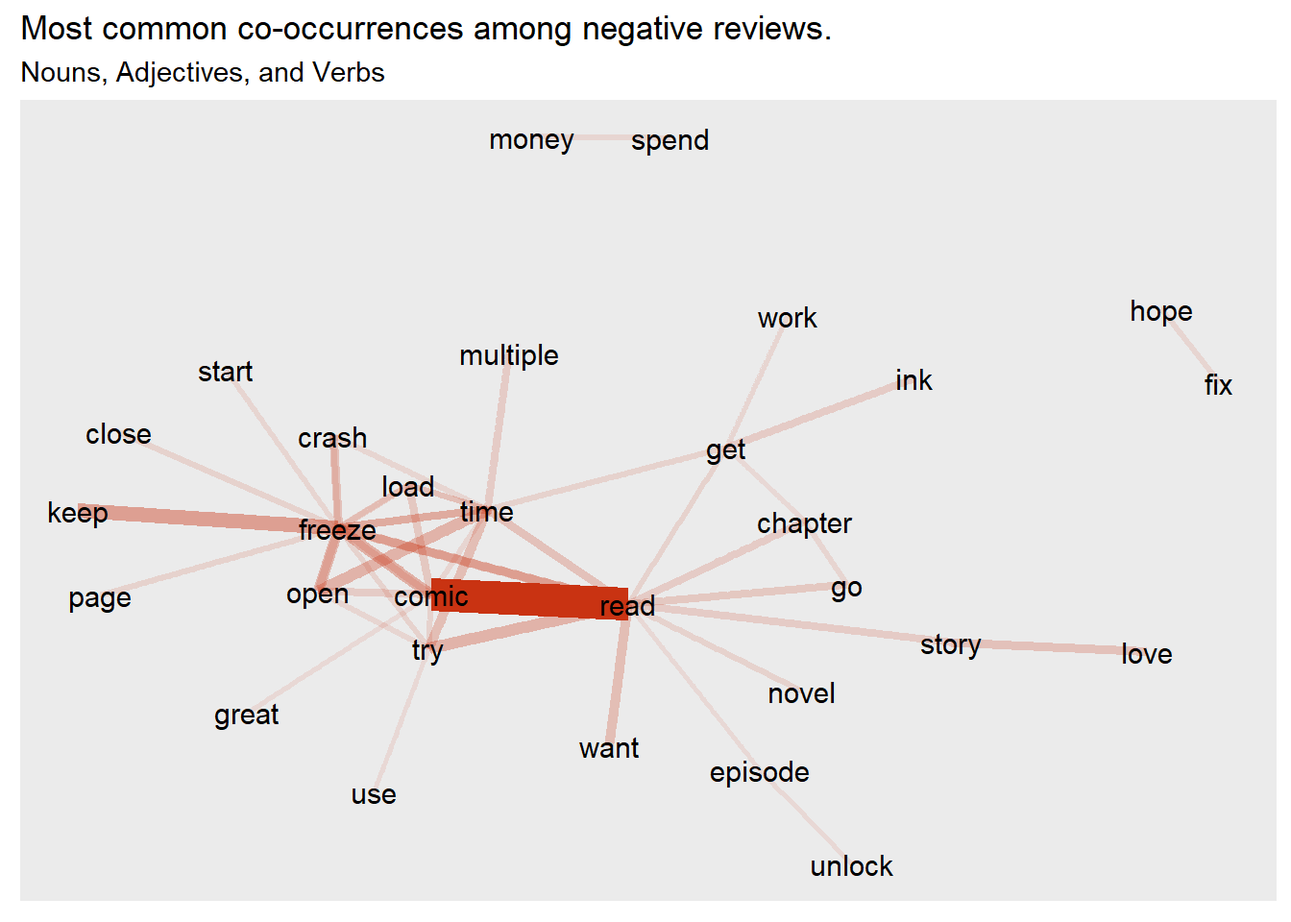
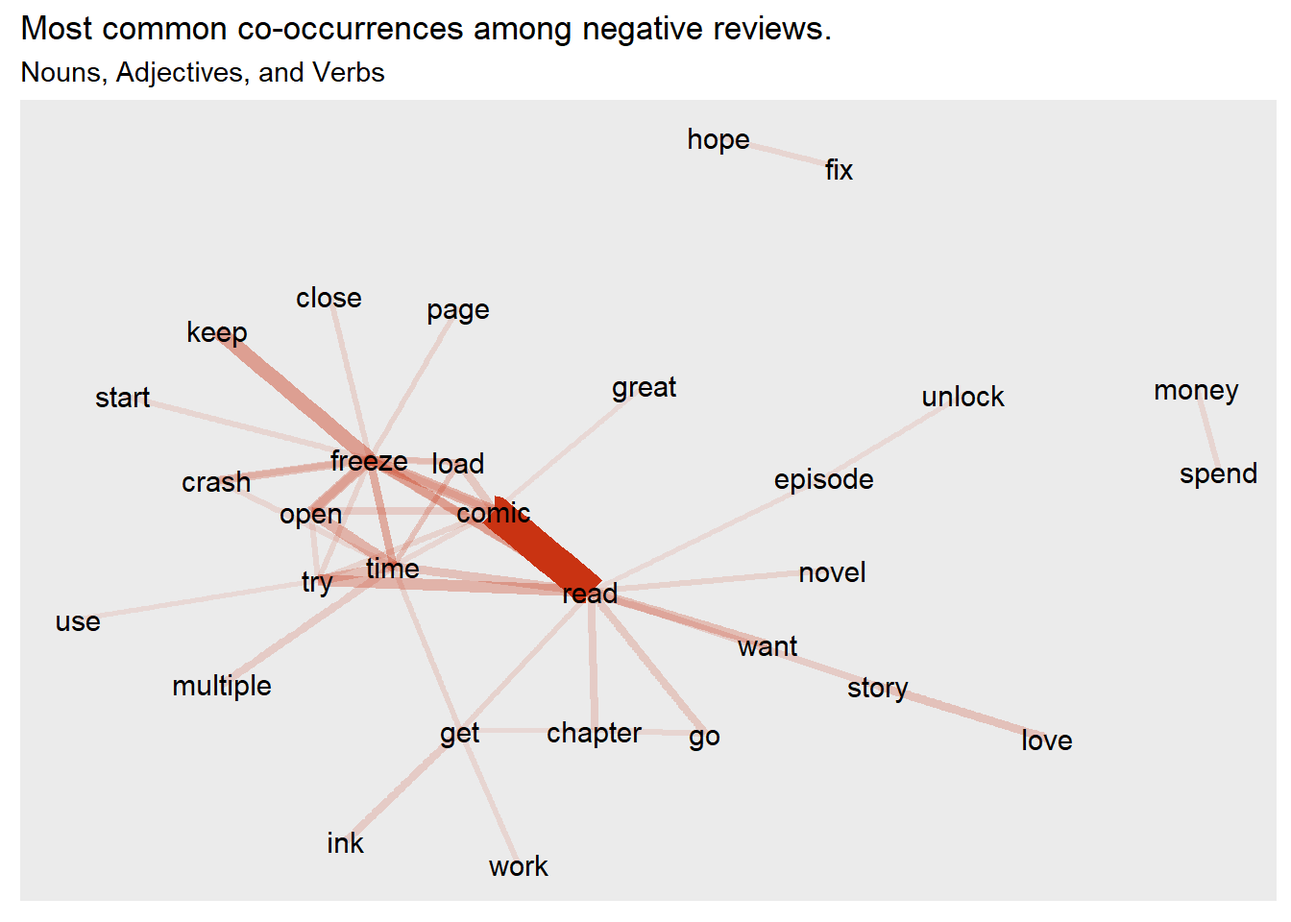
New post

diff --git a/content/post/text-mining-app-store-reviews/index.html b/content/post/text-mining-app-store-reviews/index.html
@@ -1,28 +1,29 @@
 ---
-title: "Ouch! Extracting Pain Points from App Reviews"
+title: "Webtoon App Reviews: Sentiment Analysis and Keyword Extraction"
 author: "Tato Lu"
 date: "10/24/2021"
 categories: ["R"]
-tags: ["EDA", "nlp", "text mining", "sentiment analysis", "topic modeling", "linear regression"]
+tags: ["EDA", "nlp", "text mining", "sentiment analysis", "topic modeling", "linear regression", "R"]
 ---
 
 
 
 <p><img src="images/app_store_reviews.PNG" />
-Today, companies are faced with huge volumes of unstructured text data in the form of social media posts, online reviews, emails, etc. Those data are key in answering questions like:</p>
+I currently work in economic consulting, but my first paid job was drawing comics for Tapas Media, a webtoon platform. I used to think that these two jobs were worlds apart. But even though one deals with million-dollar litigations and the other deals with funny drawings and fart jokes, they’re really about the same thing: telling stories. So in a weird way, my first job at Tapas started my journey as a storyteller. Needless to say, the company still holds a place near and dear to my heart.</p>
+<p>I thought it’d be fitting for my first portfolio project to pay homage to my first job, so I’ll be using Apple Store reviews to tell a story about the <a href="https://apps.apple.com/us/app/tapas-comics-and-novels/id578836126">Tapas app</a>. The goal of this project is to answer the following questions:</p>
 <ul>
-<li><p><strong>What does Twitter think of our brand?</strong></p></li>
-<li><p><strong>What key features are Amazon reviewers buzzing about?</strong></p></li>
-<li><p><strong>What pain points are users experiencing on our latest app?</strong></p></li>
+<li><p><strong>How have ratings changed for the Tapas app over the past few months?</strong></p></li>
+<li><p><strong>What’s the #1 problem that users experience with the Tapas app?</strong></p></li>
+<li><p><strong>Has Tapas dealt with the problem, and if so, did it work?</strong></p></li>
 </ul>
-<p>In this post, I’ll showcase a few data science techniques we can use to answer those questions. We’ll cover <em>exploratory data analysis (“EDA”)</em>, as well as text mining techniques like <em>sentiment analysis</em> and <em>keyword extraction</em>. I’ll be using <em>R</em> to download, analyze, and visualize key patterns in <em>Apple App Store reviews</em>.</p>
+<p>By the end of this post, we’ll see that as of XX, ratings have improved compared to</p>
 <div id="setup-and-loading-data" class="section level2">
 <h2>Setup and Loading Data</h2>
-<p>To start, we’ll use the <strong>appler</strong> package to download the latest user reviews for a given app ID. As a webtoon enthusiast, I’m a big fan of the <a href="https://apps.apple.com/us/app/tapas-comics-and-novels/id578836126">Tapas app</a>, so I’ll be analyzing the reviews for their app!</p>
+<p>To start, I use the <strong>appler</strong> package to download the latest user reviews for the Tapas app. I downloaded this data as of October 24, 2021.</p>
 <p>(<em>disclaimer: the App Store API only allows users to download the latest 500 reviews. But even if you have thousands of reviews, you can still apply the same analyses!</em>)</p>
 <pre class="r"><code># App store ID can be found in the app store URL: https://apps.apple.com/us/app/tapas-comics-and-novels/id578836126
 reviews &lt;- appler::get_apple_reviews(578836126, country = &#39;us&#39;, all_results = TRUE)</code></pre>
-<p>Once we have the data downloaded, we can use dim() and head() to look at how large the dataset is, and what it looks like.</p>
+<p>Afted downloading the data, I use dim() and head() to take a peek at the dataset.</p>
 <pre class="r"><code>dim(reviews)</code></pre>
 <pre><code>## [1] 500   7</code></pre>
 <pre class="r"><code>head(reviews, 3)</code></pre>
@@ -38,43 +39,38 @@ reviews &lt;- appler::get_apple_reviews(578836126, country = &#39;us&#39;, all_r
 ## 1                                                                                                                                                                                                  I’ll be honest, this app is pretty good, and I love the stories in it, but they’ve started going to severe lengths with their censorship. This is honestly just infuriating, because so many artists are being forced to go over their old comics and edit them to cover up scenes that were even slightly sexual, which takes away from time they could be using to make legitimate updates. It’s really really dumb.
 ## 2                                                                                                                                                                                                                                                                 I like the app the comics they have are some I’ve been looking for just that it has this problem where it shows black pages and even when I close the comic and reopen it, it’s still black then the app eventually crashes its happened three times so far and I’ve been waiting for them to fix it, so if it could be fixed it’d my experience better
 ## 3 Honestly I like everything about tapas but it’s too expensive if u only read manga on the app like me then the best deal you can get is $1=4 chapters. Yeah you can earn the ink but there’s multiple problems with that, if you try to earn it through apps then it doesn’t work at all, the poles work but take a lot of time for very little reward and the ads ur only allowed a certain amount every so often. The price just makes people wanna go to pirating cites instead, I think if the prices were lowered then more people would be willing to actually pay for the content instead of stealing it online.</code></pre>
-<p>The dataset has 500 rows, with 7 variables. The variables we’ll be working with most are review_time, app_version, rating, and review.</p>
+<p>So I have a dataset with 500 rows and 7 variables, where each row represents one review. Each row contains data on the review rating, when the review was written, the app version at the time, and the review itself.</p>
 </div>
-<div id="exploratory-data-analysis" class="section level2">
-<h2>Exploratory Data Analysis</h2>
-<div id="what-trends-do-we-see-over-time" class="section level4">
-<h4>“What trends do we see over time?”</h4>
-<p>Before diving into any analysis, let’s do some EDA get a sense of the data structure and what patterns might be worth exploring. To start, I looked at the distribution of data over the past few months.
+<div id="how-have-ratings-changed-for-the-tapas-app-over-the-last-few-months" class="section level2">
+<h2>How have ratings changed for the Tapas app over the last few months?</h2>
+<p>One of the first things I like to do is look at the distribution of data over time. This helps me identify gaps in the data, though this is more likely to be an issue for particularly large datasets from clients.
 <img src="{{< blogdown/postref >}}index_files/figure-html/unnamed-chunk-5-1.png" width="672" /></p>
-<p>Interestingly, the majority of reviews are from early 2021, and it seems like fewer and fewer people left reviews for Tapas in recent months. It’s well-known that dissatisfied customers are highly likely to leave negative reviews, while satisified customers are unlikely to leave positive reviews. So the drop in reviews could also be seen as evidence of improvements in the app. What if we looked at the app’s average rating over time?</p>
+<p>Interestingly, the majority of reviews are from early 2021, and it seems like fewer and fewer people left reviews for Tapas in recent months. The next thing I’d like to look at is the average rating over time.</p>
 <p><img src="{{< blogdown/postref >}}index_files/figure-html/unnamed-chunk-6-1.png" width="672" /></p>
-<p>Plotting ratings over time paints a similar narrative, that the Tapas app has generally improved over time. The average rating was steadily growing up until July 2021. But after that point, ratings took a dip, and by September, the average rating was essentially back where it started. The App Store provides data on app versions, so we can also look at ratings across different app versions.</p>
+<p>Seems like the Tapas app has generally improved over time. The average rating was steadily growing up until July 2021. But after that point, ratings took a dip, and by September, the average rating was essentially back where it started. The App Store provides data on app versions, so we can also look at ratings across different app versions.</p>
 <p>When we plot average ratings by app version, we can see that version 5.10 had the lowest rating since version 5.5.
 <img src="{{< blogdown/postref >}}index_files/figure-html/unnamed-chunk-9-1.png" width="672" /></p>
 <p>So we discovered that <em>Tapas ratings improved through the release of version 5.9 in July</em>, but <em>ratings have fallen in recent months for versions 5.10-5.12</em>.</p>
 </div>
-</div>
-<div id="whats-driving-the-negative-reviews" class="section level2">
-<h2>What’s driving the negative reviews?</h2>
-<p>So far we’ve only looked at ratings, but there’s a whole gold-mine of information we’ve yet to touch: the reviews! There are hundreds of ways you can analyze text data. I’ll focus on <strong>sentiment analysis</strong> and <strong>keyword extraction</strong>, and we’ll finish it up with a simple linear regression.</p>
-<div id="text-cleaning-and-sentiment-analysis" class="section level3">
-<h3>Text Cleaning and Sentiment Analysis</h3>
-<div id="how-do-we-identify-negative-reviews" class="section level4">
-<h4>“How do we identify negative reviews?”</h4>
-<p><a href="https://monkeylearn.com/blog/text-mining-sentiment-analysis/">Sentiment analysis</a> is exactly what it sounds like: taking a body of text and determining whether the underlying sentiment is positive, negative, or neutral. With sentiment analysis, you can get a deeper understanding of public opinion about your company/product/service.</p>
-<p>Sentiment analysis is helpful in this case because there can still be reviews with positive ratings, but the text itself is negative. For example, this 5-star review talks about an issue with the app crashing. If we filtered on rating, we wouldn’t capture a review like this. So when identifying pain points, we’ll want to use sentiment analysis to keep reviews like this in the population.</p>
+<div id="whats-the-1-problem-that-users-have-with-the-tapas-app" class="section level2">
+<h2>What’s the #1 problem that users have with the Tapas app?</h2>
+<p>Now that we see the trend in ratings, my next question would be to look at the negative reviews and try to identify what’s the #1 problem users are dealing with.</p>
+<div id="identifying-negative-reviews" class="section level3">
+<h3>Identifying Negative Reviews</h3>
+<p>We could simply use reviews with low star ratings to identify negative reviews, but there are also four- or five-star reviews that sometimes include hidden criticisms of the app, or as I like to call them: “I love it, but…” reviews. For example, this 5-star review talks about an issue with the app crashing. If we filtered on rating, we wouldn’t capture a review like this.</p>
 <pre class="r"><code>reviews %&gt;% filter(id == 7882943052) %&gt;% select(rating, title, review)</code></pre>
 <pre><code>##   rating                                title
 ## 1      5 App keeps Crashing when I go into it
 ##                                                                                                                                                                                                                           review
 ## 1 My only complain about the app is that it keeps crashing whenever I try to go in and I just reinstalled it and downloaded all my favorite books that I had on it .  And it keeps on crashing every time I go into the the app.</code></pre>
-<p>Before we can run our sentiment analysis, we need to pre-process our text data. This often involves stripping punctuation, removing uninformative stop words (e.g., “the”, “a”, “and”), as well as other cleaning steps. Eventually, our “cleaned” reviews will look like this:</p>
+<p>So to help identify all negative reviews, I employ sentiment analysis. <a href="https://monkeylearn.com/blog/text-mining-sentiment-analysis/">Sentiment analysis</a> is exactly what it sounds like: taking a body of text and determining whether the underlying sentiment is positive, negative, or neutral. With sentiment analysis, you can get a deeper understanding of public opinion about your company/product/service.</p>
+<p>Before running my sentiment analysis, I do some cleaning on the reviews: stripping punctuation, removing uninformative stop words (e.g., “the”, “a”, “and”), as well as other cleaning steps. Ultimately, my “cleaned” reviews look like this:</p>
 <p><img src="images/text_cleaning.PNG" /></p>
 <p>After cleaning the text, I used the “syuzhet” package in R to calculate a sentiment “score” for each review. For example, words like “garbage” will get negative scores, while a word like “pleasant” gets a postive score. The total gets you to the overall score for the review.</p>
 <p><img src="images/sentiment_score.png" />
 (<em>These scores are pulled from “lexicons” assembled by literary researchers. I’m using Syuzhet, <a href="https://www.rdocumentation.org/packages/syuzhet/versions/1.0.6">the default lexicon in the syuzhet package that was developed in the Nebraska Literary Lab</a>.</em>)</p>
-<p>After we calculate a sentiment score for every review, we can identify “negative”, “positive” or “neutral” reviews (i.e., reviews with a negative, positive, or zero sentiment score respectively).</p>
-<p>So if we saw relatively poor ratings on version 5.10, we should also see more negative sentiment. Sure enough, if we plot sentiment by app version, we see exactly that.</p>
+<p>After I calculate a sentiment score for every review, I can identify “negative”, “positive” or “neutral” reviews (i.e., reviews with a negative, positive, or zero sentiment score respectively).</p>
+<p>As a sanity check, I plot sentiment by app version. The resulting chart is consistent with our earlier observation that users didn’t seem to like version 5.10.</p>
 <pre class="r"><code>sent_ver &lt;- reviews %&gt;% 
   group_by(app_version_clean, sentiment_direction) %&gt;%
   summarize(percentage = n())
@@ -95,15 +91,11 @@ ggplot(sent_ver, aes(fill = sentiment_direction, x = app_version_clean, y = perc
 <p><img src="{{< blogdown/postref >}}index_files/figure-html/unnamed-chunk-14-1.png" width="672" /></p>
 <p>So what are these negative reviews talking about? If we look at a few examples, we can see some pain points that users are experiencing.</p>
 <p><img src="images/negative_reviews.png" /></p>
-<p>As we can see, we were able to capture the example 5-star review as a negative review based on its sentiment score. So <em>in addition to ratings, we can also identify negative reviews based on sentiment score.</em></p>
-<p>Crashes seem to be a common problem, while another user mentioned “ink”, which is Tapas’ in-app currency for purchasing premium content. Next, we’ll use keyword extraction to identify what are the most common keywords that appear in negative reviews.</p>
+<p>Crashes seem to be a common problem, while another user mentioned “ink”, which is Tapas’ in-app currency for purchasing premium content. How do we know what is the #1 problem? To help answer this, I use an algorithm to extract the most common keywords from these negative reviews.</p>
 </div>
-</div>
-<div id="keyword-extraction" class="section level3">
-<h3>Keyword Extraction</h3>
-<div id="what-are-common-keywords-among-negative-reviews" class="section level4">
-<h4>“What are common keywords among negative reviews?”</h4>
-<p>We saw that the issue of “crashes” appear commonly in the reviews, but are there other keywords that we should look for? There are many different algorithms/approaches for identifying key words/topics in text data. A popular approach is the <a href="https://monkeylearn.com/keyword-extraction/">“Rapid Automatic Keyword Extraction” (“RAKE”) algorithm</a>, which identifies the most relevant words and phrases that commonly occur together (i.e., co-occurences).</p>
+<div id="identifying-common-keywords-in-negative-reviews" class="section level3">
+<h3>Identifying Common Keywords in Negative Reviews</h3>
+<p>There are many different algorithms/approaches for identifying key words/topics in text data. A popular approach is the <a href="https://monkeylearn.com/keyword-extraction/">“Rapid Automatic Keyword Extraction” (“RAKE”) algorithm</a>, which identifies the most relevant words and phrases that commonly occur together (i.e., co-occurences).</p>
 <p>For this step, I’ll define “negative” reviews as those with (1) a rating lower than 3 stars, or (2) a rating with a negative sentiment score.</p>
 <p>I used r’s “udpipe” package to run a RAKE algorithm on these negative reviews. The udpipe package lets us identify words that commonly occur with each other, and it identifies the part-of-speech for each word (i.e., nouns, adjectives, or verbs).</p>
 <p>One thing we can do is visualize a word “network”, to see some of the most common nouns, adjectives, and verbs in the negative reviews and what other words are associated with them:
@@ -140,29 +132,25 @@ ggplot(stats_chart, aes(x = keyword, y = rake, fill = perf_issue)) +
 <p>The top phrases relate to the function of the app, but after that, most of the phrases seem related to performance issues. Namely, we can see that words/phrases like “fix bug”, “keep freeze”, and “long time” appear frequently in negative reviews. So it looks like <em>performance issues are the most common complaint in negative reviews.</em></p>
 </div>
 </div>
-</div>
-<div id="regression" class="section level2">
-<h2>Regression</h2>
-<div id="do-performance-issues-explain-everything-about-why-we-get-negative-reviews" class="section level4">
-<h4>“Do performance issues explain everything about why we get negative reviews?”</h4>
-<p>So did we crack the puzzle? Do performance issues really explain all the negative reviews? Or is something else at play?</p>
-<p>As an initial step, now that we know that we can search for keywords like “freeze”, “fix”, “load”, etc. to identify reviews related to performance issues, we can look at trends in these sort of reviews. Let’s define the metric “Performance Issue Rate” as the percent of reviews with these “performance-issue” keywords.
+<div id="how-has-tapas-dealt-with-the-problem" class="section level2">
+<h2>How has Tapas dealt with the problem?</h2>
+<p>Now that we know that we can search for keywords like “freeze”, “fix”, “load”, etc. to identify reviews related to performance issues, we can look at trends in these sort of reviews. Let’s define the metric “Performance Issue Rate” as the percent of reviews with these “performance-issue” keywords.
 <img src="{{< blogdown/postref >}}index_files/figure-html/unnamed-chunk-20-1.png" width="672" /></p>
 <p><img src="{{< blogdown/postref >}}index_files/figure-html/unnamed-chunk-21-1.png" width="672" /></p>
-<p>So it looks like the improvement in ratings is driven by improvements in app performance. We can see how much Performance Issue Rate affect ratings by running a quick OLS regression.
+<p>Great! It looks like Tapas has made improvements to their app so that fewer people are complaining about performance-issues, and so their ratings improved.</p>
+<p>A follow-up question would be: how much has fixing performance issues helped with the ratings? Are there other issues that we’re overlooking? To answer these questions, we can see how much Performance Issue Rate affect ratings by running a quick OLS regression.
 <img src="{{< blogdown/postref >}}index_files/figure-html/unnamed-chunk-22-1.png" width="672" />
 The regression shows that across all app versions, performance issues explain about 48 percent of the variance in ratings. It appears that the regression fits better for earlier app versions, but is not a great fit for versions 5.9, 5.10 or 5.12 (removing app versions 5.9, 5.10, and 5.12 bumps the R-squared up to 92 percent). This suggests that although performance explains most of the change in ratings for earlier app versions, other issues besides performance drove the drop in ratings for versions 5.10 and 5.12.</p>
 </div>
-</div>
 <div id="conclusion-and-next-steps" class="section level2">
 <h2>Conclusion and Next Steps</h2>
-<p>From our EDA and text mining analyses on app reviews for the Tapas app, we’ve arrived at the following takeaways:</p>
+<p>By looking at the Apple Store reviews for the Tapas app, we uncovered the following story:</p>
 <ul>
 <li><p><strong>Ratings grew</strong> from an average of 2.59 (ver 5.5) to 3.46 (ver 5.9), but fell with ver. 5.10 and 5.12.</p></li>
 <li><p>The growth in ratings were largely driven by <strong>improved app performance.</strong></p></li>
 <li><p><strong>Other issues besides app performance</strong> are driving the fall in ratings for the more recent updates (ver. 5.10 and 5.12.)</p></li>
 </ul>
-<p>Hopefully this post showed you how data science techniques can help you explore and unlock deeper insights from your data. Of course, this post only touches on the surface of potential analyses we could run on the review data. Some next steps could include:</p>
+<p>Although the data paints a happy trajectory for Tapas, we’ve ended on a bit of a cliffhanger! Of course, this post only scratches the surface of what else we can do with review data. Some potential next steps could include:</p>
 <ul>
 <li><p>Running a topic model on the reviews (e.g., LDA) to separate the reviews into key topics.</p></li>
 <li><p>Dive deeper into keywords for versions 5.10 and 5.12 to attempt to identify other problems that explain the drop in ratings.</p></li>

diff --git a/content/post/covid/covid.html b/content/post/covid/covid.html
@@ -1,5 +1,5 @@
 ---
-title: "Covid-19 Vaccine Hesitancy: Studying Charts from the NY Times"
+title: "Vaccine Hesitancy: 3 Lessons from a NY Times Data Story"
 author: "Tato Lu"
 date: "12/14/2021"
 categories: ["Tableau", "SQL"]
@@ -8,11 +8,13 @@ tags: ["data visualization", "Tableau", "SQL"]
 
 
 
-<p>Call me a geek, but I love a good data visualization. What I love even more is a visualization with a story. So when I read the NY Times article <a href="https://www.nytimes.com/interactive/2021/04/17/us/vaccine-hesitancy-politics.html">“Least Vaccinated U.S. Counties Have Something in Common: Trump Voters”</a> from Danielle Ivory, Lauren Leatherby, and Robert Gebeloff, the visuals left a big impression on me. The article shows that when it comes to the Covid-19 vaccine, there’s a dividing line between political parties. I think there’s a lot to learn from the graphics in this article; the lessons I took away are:</p>
+<p><img src="images/vaccine.jpg" />
+Call me a geek, but I love a good data visualization! What I love even more is a visualization with a story. One data story that I found particularly compelling was the NY Times article <a href="https://www.nytimes.com/interactive/2021/04/17/us/vaccine-hesitancy-politics.html">“Least Vaccinated U.S. Counties Have Something in Common: Trump Voters”</a> from Danielle Ivory, Lauren Leatherby, and Robert Gebeloff. The article shows that there’s a dividing line between political parties with hesitancy around the Covid-19 vaccine, and the story is supported by a series of charts. There’s a lot to learn from these charts; not only are they designed beautifully, but each one advances and supports the narrative of the article. Here are three lessons I took away from studying these charts:</p>
 <ul>
-<li><p><strong>Every graphic should make a point.</strong> Ideally, you should be able to title the chart with a one-sentence takeaway that advances your narrative. If there’s more than one takeaway, it might make sense to add labels to highlight certain data points, or it might make sense to just make a separate chart.</p></li>
-<li><p><strong>Sometimes all you need is a scatter plot.</strong> There’s often the temptation (at least for me) to shoehorn cool-looking plots onto the data, like <a href="https://datavizcatalogue.com/methods/spiral_plot.html">spiral plots</a> or <a href="https://datavizcatalogue.com/methods/marimekko_chart.html">Marimekko charts</a>. But sometimes, the point is much more clearly demonstrated in a good old-fashioned scatter-plot, bar chart, or line graph.</p></li>
-<li><p><strong>You only need a “just right” amount of information.</strong> I find the “default” chart often includes too much information, which runs the risk of distracting or obsuring the point. Of course, what’s considered “just right” will depend on the intended audience (a finance professor testifying in court might want to be armed with more details than a layperson reading a NY Times article).</p></li>
+<li><p><strong>1. Every plot should make a point.</strong> The best visualizations are the ones that that can be summed up in one sentence, which can work as the title of the chart. If there’s no takeaway behind the chart, readers are left wondering why it’s there. On the flip side, if there’s too many takeaways, a chart can get cluttered and confusing, and it’d probably makes sense to make a separate chart.</p></li>
+<li><p><strong>2. Don’t be afraid to go back to basics.</strong> There’s sometimes the temptation to shoehorn cool plots onto the data, like <a href="https://datavizcatalogue.com/methods/spiral_plot.html">spiral plots</a> or <a href="https://datavizcatalogue.com/methods/marimekko_chart.html">Marimekko charts</a>. But often, the point is much more clearly demonstrated in a “basic” plot like a scatter-plot, bar chart, or line graph. In fact, basic charts can help establish the “setting” of a data story by laying out the boundaries of the data: a histogram shows the date range of your dataset and can quickly reveal gaps in the data; a scatter plot can establish key correlations; and a line graph can highlight important trends.</p></li>
+<li><p><strong>3. Sometimes less is more.</strong> Cliche, but true! After cooking up a brilliant analysis, the last thing you want is a confusing data element – be it a cluttered axis or a confusing label — that obscures your takeaway. Taking the few extra steps to make sure your plot conveys just the right amount of information ensures that your message is delivered loud and clear. Of course, what’s considered “just right” will depend on the intended audience (a finance professor testifying in court might want to be armed with more details than a layperson reading a NY Times article).<br />
+<img src="images/scatter_plot_breakdown.png" /></p></li>
 </ul>
-<p><img src="images/scatter_plot_breakdown.png" /></p>
+<p>To practice what I learned, I downloaded vaccine hesitancy data from the CDC and voter data from MIT, and I used SQL and Tableau to recreate the lessons and charts from the NY Times article.</p>
 <iframe align = "center" width = "1000" height = "1000" src = 'https://public.tableau.com/views/Covid-19VaccinationsandPoliticalPartyState/State?:language=en-US&:retry=yes&:display_count=n&:origin=viz_share_link'/>

diff --git a/content/about.html b/content/about.html
@@ -4,6 +4,5 @@ title: "About Me"
 
 
 
-<p>Welcome to my webpage! My name is Tato, and I currently work as an economic consultant at <a href="https://www.analysisgroup.com/">Analysis Group</a>. I hold a dual-degree in Statistics and Economics from UC Berkeley and an MBA from NYU Stern.</p>
-<p>One of the favorite parts of my job is working with data. I see data as a sandbox. At first glance, it’s just a box full of sand, and every datapoint is just one grain among millions. But with the right tools, you can sculpt and mold the sand into fantastic structures. In the same way, we have tools to extract structured insights from unstructured data.</p>
-<p>So if you’re ready to jump in the sandbox, let’s talk! You can reach me via email or LinkedIn.</p>
+<p>Welcome! My name is Tato. I’m a coder, designer, and data enthusiast, and I’m passionate about telling stories. I have over three years of experience working in <a href="https://www.analysisgroup.com/">economic consulting</a>, where I solve complex, analytical problems at the intersection of business, economics, and law. I hold a dual-degree in Statistics and Economics from UC Berkeley and an MBA from NYU Stern.</p>
+<p>Do you have a data story you want to tell? Let’s talk! You can reach me via email or LinkedIn.</p>
